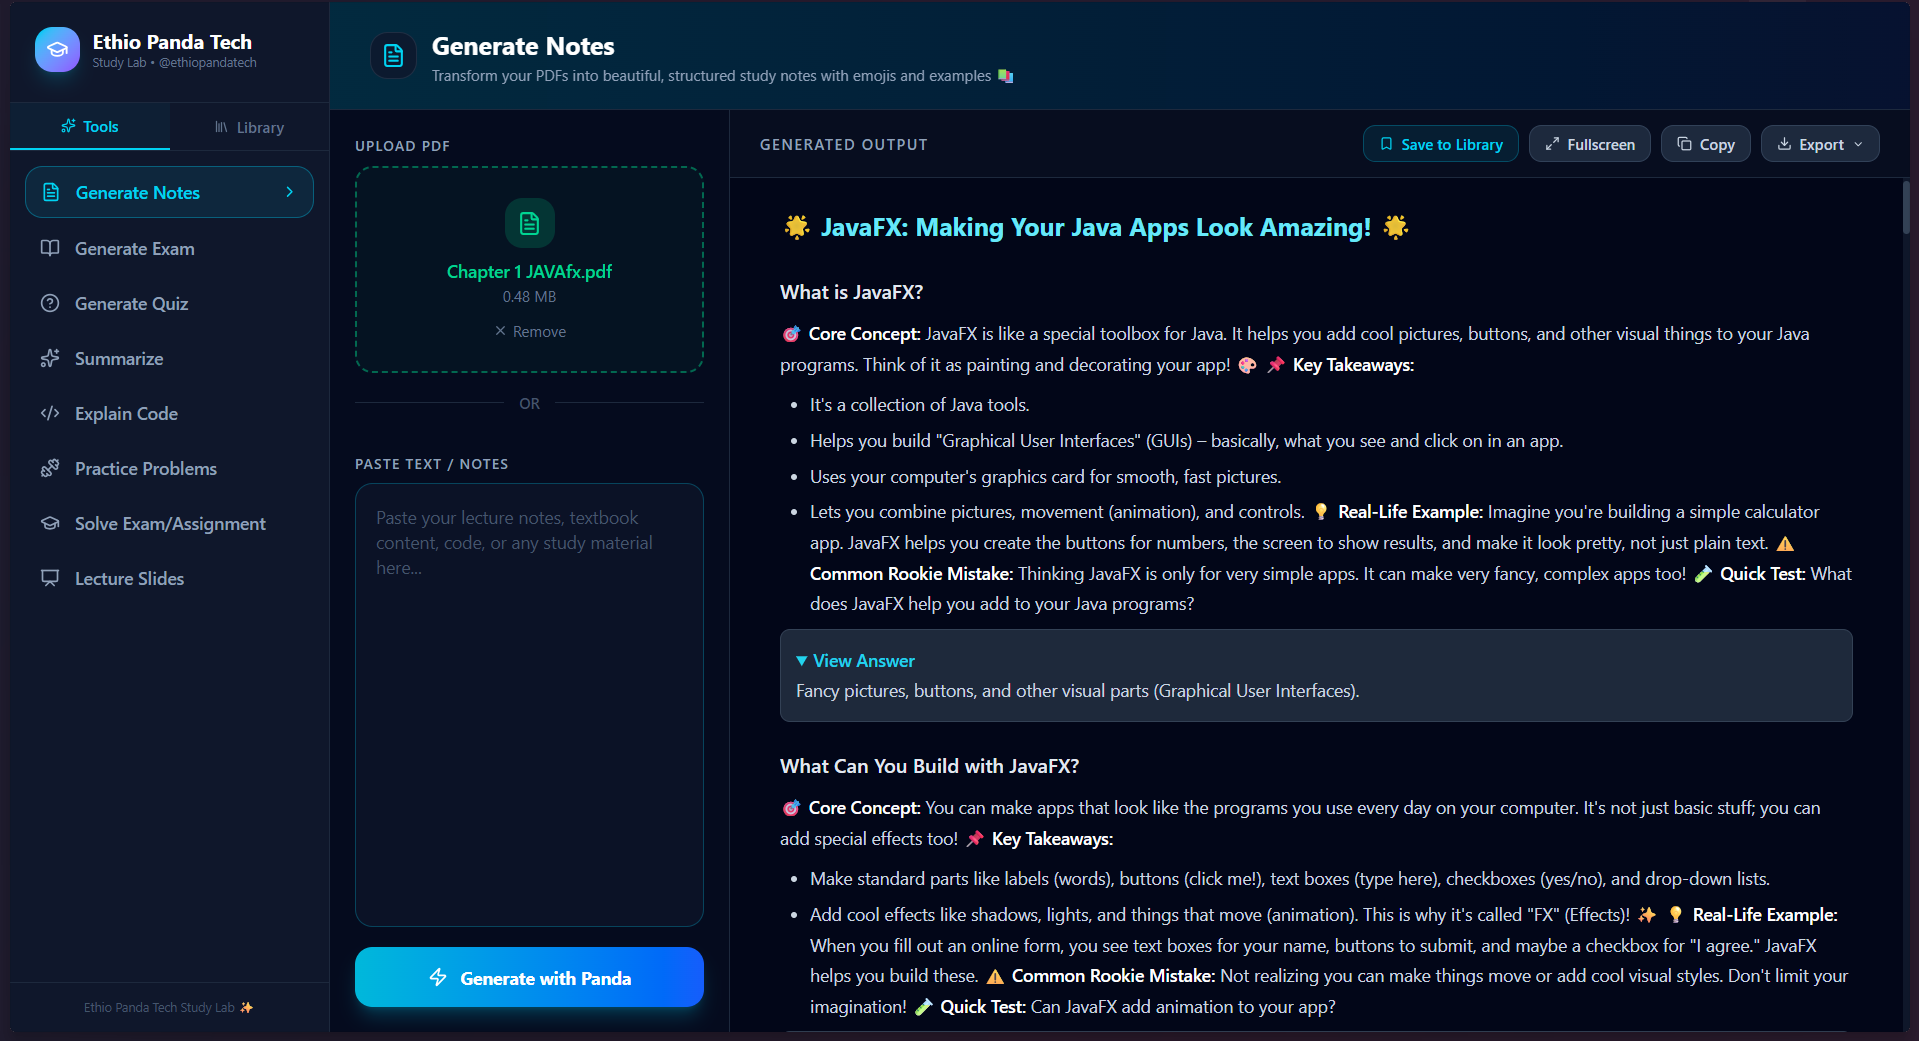
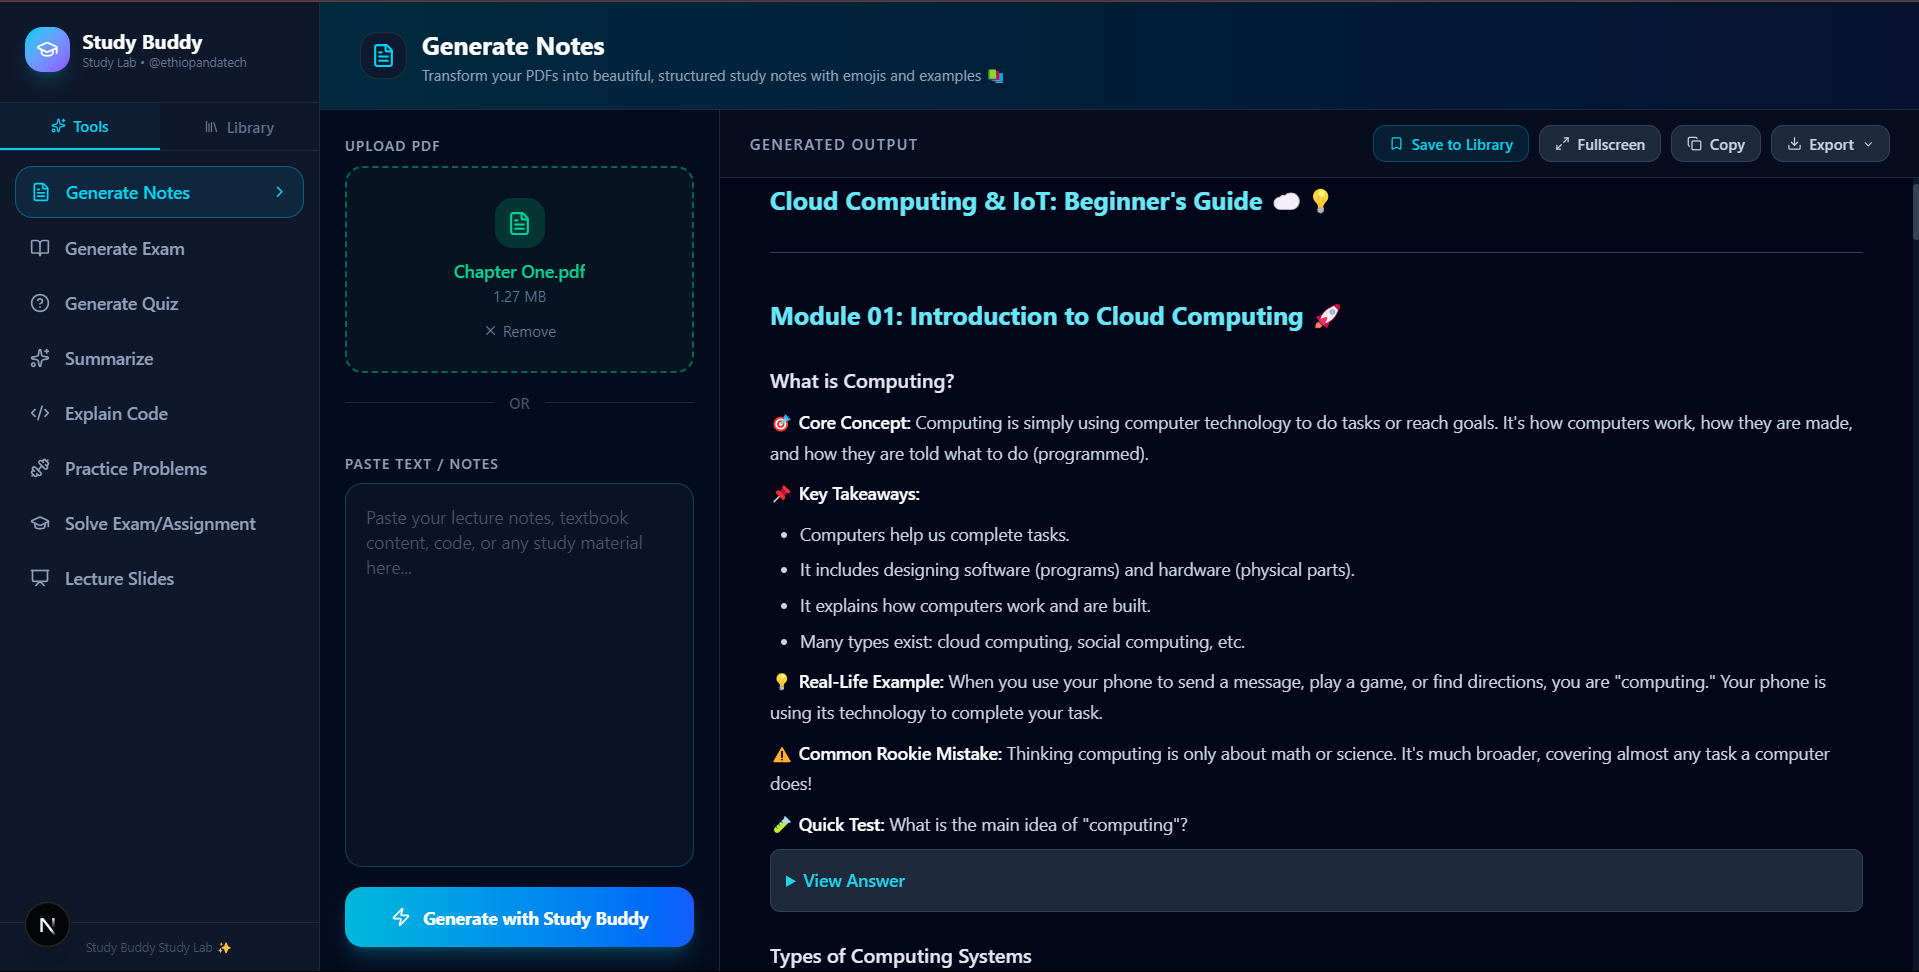
feat(landing): add bento grid features section and update naming

diff --git a/components/landing/Features.tsx b/components/landing/Features.tsx
@@ -1,0 +1,189 @@
+"use client";
+
+import { motion } from "framer-motion";
+import Image from "next/image";
+import { Sparkles, Lightbulb, CheckCircle2, FileDown, Download, Layers, Maximize } from "lucide-react";
+
+export default function Features() {
+  return (
+    <section id="features" className="py-32 bg-slate-950 relative overflow-hidden">
+      {/* Background elements */}
+      <div className="absolute top-1/2 left-0 w-96 h-96 bg-blue-600/5 blur-[150px] rounded-full -translate-y-1/2 pointer-events-none" />
+      <div className="absolute top-1/4 right-0 w-96 h-96 bg-cyan-500/5 blur-[150px] rounded-full pointer-events-none" />
+
+      <div className="container mx-auto px-4">
+        {/* Section Header */}
+        <div className="text-center max-w-3xl mx-auto mb-20">
+          <motion.h2 
+            initial={{ opacity: 0, y: 20 }}
+            whileInView={{ opacity: 1, y: 0 }}
+            viewport={{ once: true }}
+            className="text-4xl md:text-5xl font-extrabold text-white mb-6"
+          >
+            Features You Don't Want To Miss
+          </motion.h2>
+          <motion.p 
+            initial={{ opacity: 0, y: 20 }}
+            whileInView={{ opacity: 1, y: 0 }}
+            viewport={{ once: true }}
+            transition={{ delay: 0.1 }}
+            className="text-lg text-slate-400 font-medium"
+          >
+            Study Buddy has everything you need to prepare for your exams. Stop bouncing between scattered apps, messy Google Docs, and basic chatbots.
+          </motion.p>
+        </div>
+
+        {/* Bento Grid */}
+        <div className="grid grid-cols-1 md:grid-cols-3 gap-6 max-w-6xl mx-auto">
+          
+          {/* Box 1: All Tools (Large, col-span-2) */}
+          <motion.div 
+            initial={{ opacity: 0, y: 20 }}
+            whileInView={{ opacity: 1, y: 0 }}
+            viewport={{ once: true }}
+            transition={{ delay: 0.2 }}
+            className="col-span-1 md:col-span-2 bg-slate-900/50 border border-slate-800 hover:border-slate-700 transition-colors rounded-3xl p-8 md:p-10 relative overflow-hidden group shadow-lg shadow-black/20"
+          >
+            <div className="relative z-10 mb-8 max-w-md">
+              <div className="w-12 h-12 bg-blue-500/10 border border-blue-500/20 rounded-xl flex items-center justify-center mb-6">
+                <Layers className="text-blue-400 w-6 h-6" />
+              </div>
+              <h3 className="text-2xl font-bold text-white mb-3">All Your Study Tools in One Place</h3>
+              <p className="text-slate-400 leading-relaxed">
+                Connect the dots between your syllabus quickly. Generate lecture notes, mock exams, targeted quizzes, and code explanations perfectly formatted in seconds.
+              </p>
+            </div>
+            {/* Imagemock */}
+            <div className="absolute -bottom-4 -right-4 w-[85%] md:w-[70%] h-auto rounded-tl-xl overflow-hidden border-t-4 border-l-4 border-slate-800 shadow-2xl transition-transform duration-700 group-hover:-translate-y-2 group-hover:-translate-x-2">
+              <Image 
+                src="/readmescreenshot/generate note page.png" 
+                alt="All Study Tools" 
+                width={800} 
+                height={500} 
+                className="object-cover object-left-top"
+              />
+            </div>
+          </motion.div>
+
+          {/* Box 2: Dynamic Exams (Square, col-span-1) */}
+          <motion.div 
+            initial={{ opacity: 0, y: 20 }}
+            whileInView={{ opacity: 1, y: 0 }}
+            viewport={{ once: true }}
+            transition={{ delay: 0.3 }}
+            className="col-span-1 bg-slate-900/50 border border-slate-800 hover:border-slate-700 transition-colors rounded-3xl p-8 md:p-10 relative overflow-hidden group shadow-lg shadow-black/20 flex flex-col"
+          >
+            <div className="relative z-10 mb-8">
+              <div className="w-12 h-12 bg-purple-500/10 border border-purple-500/20 rounded-xl flex items-center justify-center mb-6">
+                <Sparkles className="text-purple-400 w-6 h-6" />
+              </div>
+              <h3 className="text-2xl font-bold text-white mb-3">Interactive AI Exams</h3>
+              <p className="text-slate-400 leading-relaxed">
+                Test your knowledge before the real thing. Answer multiple-choice questions natively within the dashboard and get graded instantly.
+              </p>
+            </div>
+            <div className="mt-auto relative w-full h-48 rounded-xl overflow-hidden border border-slate-800 shadow-xl transition-transform duration-700 group-hover:scale-105">
+              <Image 
+                src="/readmescreenshot/exam answer.png" 
+                alt="AI Exam Mode" 
+                fill 
+                className="object-cover object-top"
+              />
+            </div>
+          </motion.div>
+
+          {/* Box 3: Immersive Reading (Square, col-span-1) */}
+          <motion.div 
+            initial={{ opacity: 0, y: 20 }}
+            whileInView={{ opacity: 1, y: 0 }}
+            viewport={{ once: true }}
+            transition={{ delay: 0.4 }}
+            className="col-span-1 bg-slate-900/50 border border-slate-800 hover:border-slate-700 transition-colors rounded-3xl p-8 md:p-10 relative overflow-hidden group shadow-lg shadow-black/20 flex flex-col"
+          >
+            <div className="relative z-10 mb-8">
+              <div className="w-12 h-12 bg-emerald-500/10 border border-emerald-500/20 rounded-xl flex items-center justify-center mb-6">
+                <Maximize className="text-emerald-400 w-6 h-6" />
+              </div>
+              <h3 className="text-2xl font-bold text-white mb-3">Focus Without Distractions</h3>
+              <p className="text-slate-400 leading-relaxed">
+                Engage "Full-Screen Reading" mode. Strip away sidebars, buttons, and notifications to deeply absorb your study materials in complete silence.
+              </p>
+            </div>
+            <div className="mt-auto relative w-full h-48 rounded-xl overflow-hidden border border-slate-800 shadow-xl transition-transform duration-700 group-hover:scale-105">
+              <Image 
+                src="/readmescreenshot/full screen reading.png" 
+                alt="Focus Reading Mode" 
+                fill 
+                className="object-cover object-top"
+              />
+            </div>
+          </motion.div>
+
+          {/* Box 4: Export (Large, col-span-2) */}
+          <motion.div 
+            initial={{ opacity: 0, y: 20 }}
+            whileInView={{ opacity: 1, y: 0 }}
+            viewport={{ once: true }}
+            transition={{ delay: 0.5 }}
+            className="col-span-1 md:col-span-2 bg-gradient-to-br from-slate-900/50 to-cyan-950/20 border border-slate-800 hover:border-cyan-500/30 transition-colors rounded-3xl p-8 md:p-10 relative overflow-hidden group shadow-lg shadow-black/20"
+          >
+            <div className="grid md:grid-cols-2 gap-8 items-center h-full relative z-10">
+              <div>
+                <div className="w-12 h-12 bg-cyan-500/10 border border-cyan-500/20 rounded-xl flex items-center justify-center mb-6">
+                  <Download className="text-cyan-400 w-6 h-6" />
+                </div>
+                <h3 className="text-3xl font-bold text-white mb-3">Universal Seamless Export.</h3>
+                <p className="text-slate-400 leading-relaxed text-lg mb-6">
+                  Export your generated study manuals directly into beautiful PDFs, editable Word Documents, Raw Markdown, or even fully interactive HTML lecture slides. Take your notes anywhere.
+                </p>
+                
+                <ul className="space-y-3">
+                  {['Download as high-res PDF', 'Export to .DOCX Word Files', 'Generate standalone HTML Presentations', 'Copy Markdown to Notion or Obsidian'].map((item, i) => (
+                    <li key={i} className="flex items-center gap-3 text-slate-300 font-medium">
+                      <CheckCircle2 className="w-5 h-5 text-cyan-400 shrink-0" />
+                      <span>{item}</span>
+                    </li>
+                  ))}
+                </ul>
+              </div>
+              
+              <div className="relative w-full aspect-square md:aspect-auto md:h-full min-h-[250px] bg-slate-950/50 rounded-2xl border border-slate-800 overflow-hidden flex items-center justify-center">
+                  <div className="absolute inset-0 bg-[radial-gradient(circle_at_center,rgba(6,182,212,0.1),transparent_60%)]" />
+                  
+                  {/* Floating abstract export icons */}
+                  <motion.div 
+                    animate={{ y: [0, -10, 0] }}
+                    transition={{ repeat: Infinity, duration: 4, ease: "easeInOut" }}
+                    className="absolute top-1/4 left-1/4 w-16 h-16 bg-red-500/10 backdrop-blur-md border border-red-500/30 rounded-2xl flex items-center justify-center shadow-2xl"
+                  >
+                     <span className="text-red-400 font-bold">PDF</span>
+                  </motion.div>
+                  
+                  <motion.div 
+                    animate={{ y: [0, 10, 0] }}
+                    transition={{ repeat: Infinity, duration: 5, ease: "easeInOut", delay: 1 }}
+                    className="absolute bottom-1/4 right-1/4 w-16 h-16 bg-blue-500/10 backdrop-blur-md border border-blue-500/30 rounded-2xl flex items-center justify-center shadow-2xl"
+                  >
+                     <span className="text-blue-400 font-bold">DOC</span>
+                  </motion.div>
+                  
+                  <motion.div 
+                    animate={{ y: [0, -15, 0] }}
+                    transition={{ repeat: Infinity, duration: 6, ease: "easeInOut", delay: 2 }}
+                    className="absolute top-1/3 right-1/4 w-16 h-16 bg-emerald-500/10 backdrop-blur-md border border-emerald-500/30 rounded-2xl flex items-center justify-center shadow-2xl"
+                  >
+                     <span className="text-emerald-400 font-bold">MD</span>
+                  </motion.div>
+
+                  <div className="w-24 h-24 bg-cyan-500/20 backdrop-blur-xl border border-cyan-400/50 rounded-3xl flex items-center justify-center shadow-2xl shadow-cyan-500/20 z-10">
+                    <FileDown className="w-10 h-10 text-cyan-400" />
+                  </div>
+              </div>
+            </div>
+          </motion.div>
+
+        </div>
+      </div>
+    </section>
+  );
+}

diff --git a/app/page.tsx b/app/page.tsx
@@ -1,19 +1,17 @@
 import Navbar from "@/components/landing/Navbar";
 import Hero from "@/components/landing/Hero";
+import Features from "@/components/landing/Features";
 
 export default function LandingPage() {
   return (
-    <main className="min-h-screen bg-slate-950 text-white selection:bg-blue-500/30">
+    <main className="min-h-screen bg-slate-950 text-white selection:bg-cyan-500/30">
       <Navbar />
       <Hero />
+      <Features />
       
       {/* Scrollable sections below */}
       <div className="space-y-32 pb-20">
-        {/* We will add Features, Pricing, FAQ, etc. here in next steps */}
-        <section id="features" className="container mx-auto px-4 py-20 text-center">
-            <h2 className="text-3xl font-bold mb-4">Powerful Features Coming Soon</h2>
-            <p className="text-slate-400">We are currently building the Bento Grid features section to showcase everything Study Buddy can do.</p>
-        </section>
+        {/* We will add Testimonials, Pricing, FAQ, etc. here in next steps */}
       </div>
     </main>
   );

diff --git a/app/layout.tsx b/app/layout.tsx
@@ -9,7 +9,7 @@ const _geistMono = Geist_Mono({ subsets: ["latin"] });
 export const metadata: Metadata = {
   title: "Study Buddy Study Lab",
   description:
-    "Modern Ethio Panda study lab dashboard for notes, exams, quizzes, and more",
+    "Modern study lab dashboard for notes, exams, quizzes, and more",
   generator: "v0.app",
   icons: {
     icon: [

diff --git a/components/MainArea.tsx b/components/MainArea.tsx
@@ -863,7 +863,7 @@ export default function MainArea({
             ) : (
               <>
                 <Zap size={16} />
-                Generate with Panda
+                Generate with Study Buddy
               </>
             )}
           </button>
